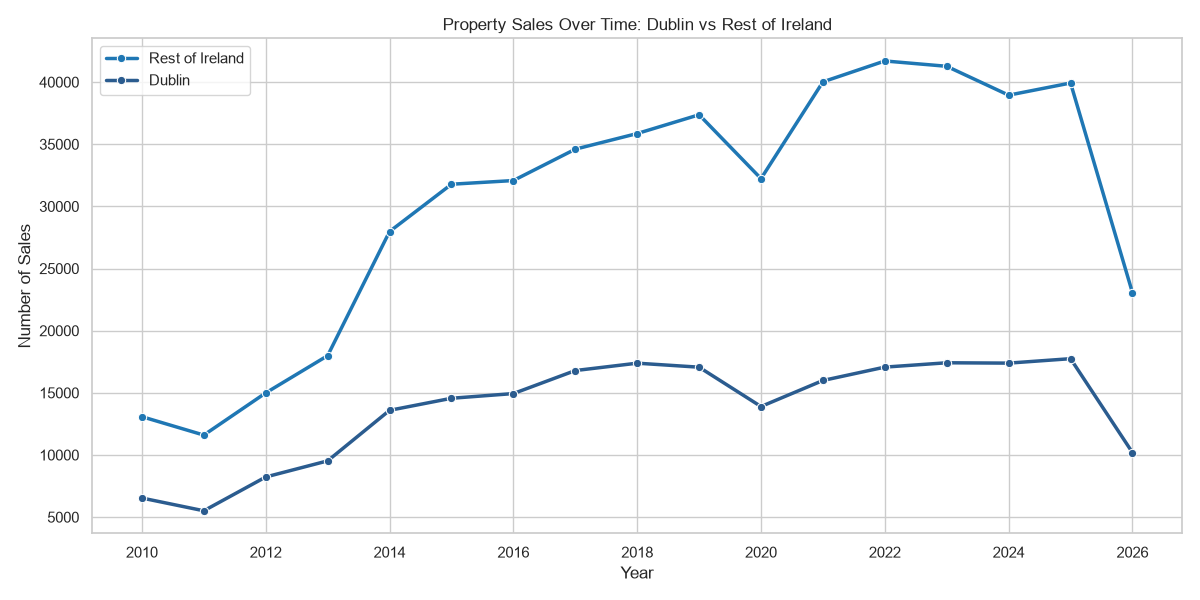
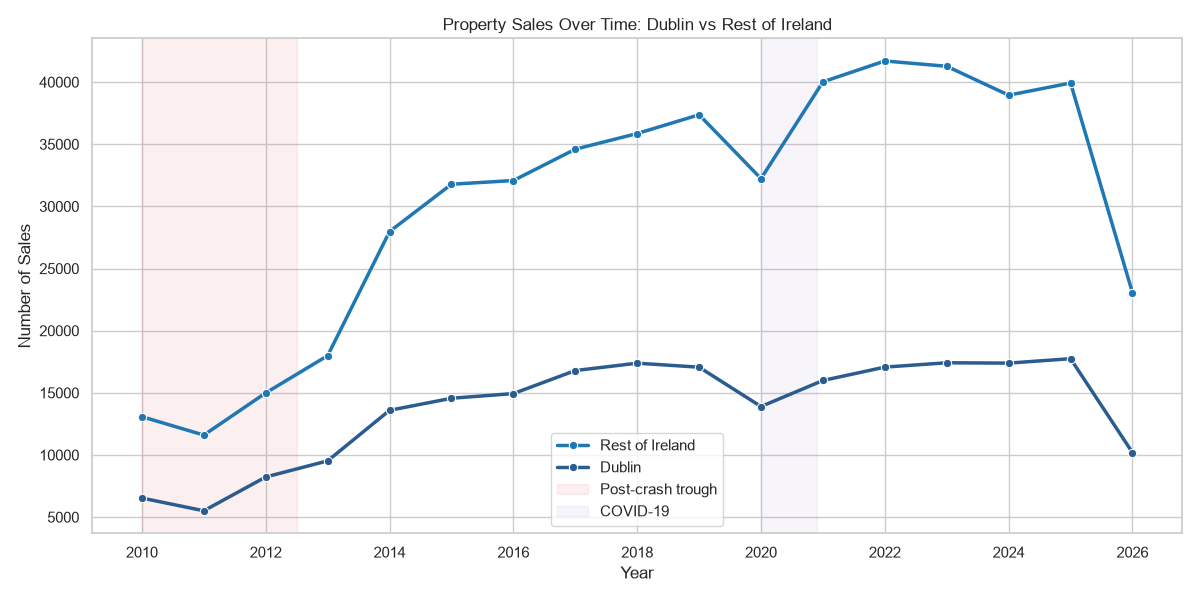
updated the sec files to keep up with the notebook

Changed region(s): [[0.4625, 0.72, 0.6167, 0.87], [0.0925, 0.09, 0.2158, 0.15]]

diff --git a/src/analysis.py b/src/analysis.py
@@ -1,5 +1,8 @@
 import pandas as pd
 import numpy as np
+from sklearn.model_selection import train_test_split
+from sklearn.linear_model import LinearRegression
+from sklearn.metrics import mean_absolute_error, r2_score
 
 
 def analysis(df):
@@ -7,9 +10,8 @@ def analysis(df):
     print(f'Columns:  {df.shape[1]}')
     print(f'Date range: {df["date"].min().date()} -> {df["date"].max().date()}')
 
-    stats = df['price'].describe(percentiles=[.1, .25, .5, .75, .9])
     labels = ['Min', '10th %ile', '25th %ile', 'Median', '75th %ile', '90th %ile', 'Max']
-    values = [stats['min'], stats['10%'], stats['25%'], stats['50%'], stats['75%'], stats['90%'], stats['max']]
+    values = np.percentile(df['price'], [0, 10, 25, 50, 75, 90, 100])
 
     print('National price distribution (all years):')
     print('-' * 35)
@@ -28,3 +30,114 @@ def analysis(df):
     annual['yearly_percentage_change'] = annual['median_price'].pct_change() * 100
 
     return annual
+
+
+def regional_comparison(df):
+    df["is_dublin"] = df["county"] == "dublin"
+    print(df["is_dublin"].head())
+    print(df["is_dublin"].sum())
+
+    yearly_comparison = (
+        df.groupby(["year", "is_dublin"])
+        .size()
+        .reset_index(name="sales_count")
+    )
+    yearly_comparison["region"] = yearly_comparison["is_dublin"].map(
+        {True: "Dublin", False: "Rest of Ireland"}
+    )
+
+    return yearly_comparison
+
+
+def dublin_share(df, yearly_comparison):
+    yearly_comparison = yearly_comparison.copy()
+    yearly_comparison["total"] = yearly_comparison.groupby("year")["sales_count"].transform("sum")
+    yearly_comparison["pct_of_total"] = yearly_comparison["sales_count"] / yearly_comparison["total"] * 100
+
+    overall_totals = df["is_dublin"].value_counts().rename({True: "Dublin", False: "Rest of Ireland"})
+
+    return yearly_comparison, overall_totals
+
+
+def eircode_analysis(df):
+    df["eircode_routing_key"] = df["eircode"].str[:3]
+
+    eircode_stats = (
+        df.dropna(subset=["eircode_routing_key"])
+        .groupby("eircode_routing_key")
+        .agg(median_price=("price", "median"), sales_count=("price", "count"))
+        .query("sales_count >= 30")  # drop routing keys with too few sales to be meaningful
+        .sort_values("median_price", ascending=False)
+    )
+
+    print(f"Most expensive eircode: {eircode_stats.index[0]} — median €{eircode_stats['median_price'].iloc[0]:,.0f}")
+
+    return eircode_stats
+
+
+def train_price_model(df):
+    # Check the county data
+    print(df["county"].head())
+
+    # Keep only rows with the information needed for the model
+    model_df = df.dropna(
+        subset=["price", "county", "year", "property_type"]
+    ).copy()
+
+    # Cap extreme prices so they don't dominate the regression
+    lower, upper = model_df["price"].quantile([0.01, 0.99])
+
+    model_df = model_df[
+        (model_df["price"] >= lower) &
+        (model_df["price"] <= upper)
+    ]
+
+    # One-hot encode categorical variables
+    # drop_first=True creates a reference category
+    X = pd.get_dummies(
+        model_df[["county", "year", "property_type"]],
+        columns=["county", "property_type"],
+        drop_first=True
+    )
+
+    # Target variable
+    y = model_df["price"]
+
+    # Split the data into training and testing sets
+    X_train, X_test, y_train, y_test = train_test_split(
+        X,
+        y,
+        test_size=0.2,
+        random_state=42
+    )
+
+    # Create and train the linear regression model
+    model = LinearRegression()
+    model.fit(X_train, y_train)
+
+    # Make predictions
+    y_pred = model.predict(X_test)
+
+    # Display model coefficients
+    coefficients = pd.DataFrame({
+        "Feature": X.columns,
+        "Coefficient (€)": model.coef_
+    })
+
+    coefficients = (
+        coefficients
+        .sort_values(by="Coefficient (€)", ascending=False)
+        .reset_index(drop=True)
+    )
+
+    print("\nTop 10 features by coefficient:")
+    print(coefficients.head(10))
+
+    # Model performance
+    print(f"\nR² score: {r2_score(y_test, y_pred):.3f}")
+    print(
+        f"Mean Absolute Error: "
+        f"€{mean_absolute_error(y_test, y_pred):,.0f}"
+    )
+
+    return model, coefficients

diff --git a/src/visualization.py b/src/visualization.py
@@ -7,10 +7,10 @@ def visualisation1(annual):
     ACCENT = "#2b5c8f"  # Main median line color (e.g., steel blue)
     BLUE = "#1f77b4"  # Mean line color
     GREEN = "#2ca02c"  # Positive YoY percentage bars
-    RED = "#c21e1e"  # Negative YoY percentage bars & post-crash highlight
-    PURPLE = "#a45ee9"  # COVID-19 highlight
+    RED = "#d62728"  # Negative YoY percentage bars & post-crash highlight
+    PURPLE = "#9467bd"  # COVID-19 highlight
 
-    sns.set_theme(style="whitegrid")
+    sns.set_theme(style="whitegrid", palette="muted")
 
     fig, axes = plt.subplots(
         2, 1, figsize=(14, 10), gridspec_kw={"height_ratios": [2, 1]}
@@ -109,6 +109,89 @@ def visualisation1(annual):
 
     plt.tight_layout(pad=2)
     plt.savefig(
-        "outputs/images/national_price_trend.png", dpi=150, bbox_inches="tight"
+        "outputs/images/national_price_trend.png", dpi=150, bbox_inches="tight", facecolor="#0f1117"
     )
+    plt.show()
+
+
+def visualisation2(yearly_comparison):
+    ACCENT = "#2b5c8f"
+    BLUE = "#1f77b4"
+    RED = "#d62728"
+    PURPLE = "#9467bd"
+
+    plt.figure(figsize=(12, 6))
+    sns.lineplot(
+        data=yearly_comparison,
+        x="year",
+        y="sales_count",
+        hue="region",
+        palette={"Dublin": ACCENT, "Rest of Ireland": BLUE},
+        linewidth=2.5,
+        marker="o",
+        markersize=6,
+    )
+
+    # Highlight Spans
+    plt.axvspan(2010, 2012.5, alpha=0.07, color=RED, label="Post-crash trough")
+    plt.axvspan(2020, 2020.9, alpha=0.07, color=PURPLE, label="COVID-19")
+
+    plt.title("Property Sales Over Time: Dublin vs Rest of Ireland")
+    plt.ylabel("Number of Sales")
+    plt.xlabel("Year")
+    plt.legend(title="")
+    plt.tight_layout()
+    plt.savefig("outputs/images/Property Sales Over time in Dublin vs Rest of Ireland.png")
+    plt.show()
+
+
+def visualisation3(yearly_comparison, overall_totals):
+    ACCENT = "#2b5c8f"
+    BLUE = "#1f77b4"
+
+    fig, axes = plt.subplots(1, 2, figsize=(16, 6), gridspec_kw={"width_ratios": [2, 1]})
+
+    # --- Left: line chart over time ---
+    sns.lineplot(
+        data=yearly_comparison,
+        x="year",
+        y="pct_of_total",
+        hue="region",
+        palette={"Dublin": ACCENT, "Rest of Ireland": BLUE},
+        linewidth=2.5,
+        marker="o",
+        ax=axes[0],
+    )
+    axes[0].set_title("Dublin's Share of National Property Sales Over Time")
+    axes[0].set_ylabel("% of Total Sales")
+    axes[0].set_xlabel("Year")
+    axes[0].legend(title="")
+
+    # --- Right: pie chart, overall total ---
+    axes[1].pie(
+        overall_totals.values,
+        labels=overall_totals.index,
+        autopct="%1.1f%%",
+        colors=[ACCENT, BLUE],
+        startangle=90,
+    )
+    axes[1].set_title("Overall Share (All Years)")
+
+    plt.tight_layout()
+    plt.savefig("outputs/images/Dublin_Share_Combined.png")
+    plt.show()
+
+
+def visualisation4(eircode_stats):
+    ACCENT = "#2b5c8f"
+
+    top15 = eircode_stats.head(15)
+
+    plt.figure(figsize=(10, 7))
+    sns.barplot(x=top15["median_price"], y=top15.index, color=ACCENT)
+    plt.title("Top 15 Most Expensive Eircodes (Median Price)")
+    plt.xlabel("Median Price (€)")
+    plt.ylabel("Eircode")
+    plt.tight_layout()
+    plt.savefig("outputs/images/Most Expensive Eircodes.png")
     plt.show()

diff --git a/src/main.py b/src/main.py
@@ -1,21 +1,32 @@
-from data_loader import load_data 
+from data_loader import load_data
 from preprocessing import standardize
-from analysis import analysis
-from visualization import visualisation1
+from analysis import analysis, regional_comparison, dublin_share, eircode_analysis, train_price_model
+from visualization import visualisation1, visualisation2, visualisation3, visualisation4
 
 def main():
     # Path to the raw dataset
     file_path = "data/raw/PPR-ALL.csv"
 
-    # Load the data 
+    # Load the data
     df = load_data(file_path)
     if df is None:
         print("Failed to load the data")
-        return 
+        return
     df = standardize(df)
     annual = analysis(df)
     visualisation1(annual)
 
-    
+    yearly_comparison = regional_comparison(df)
+    visualisation2(yearly_comparison)
+
+    yearly_comparison, overall_totals = dublin_share(df, yearly_comparison)
+    visualisation3(yearly_comparison, overall_totals)
+
+    eircode_stats = eircode_analysis(df)
+    visualisation4(eircode_stats)
+
+    train_price_model(df)
+
+
 if __name__ == "__main__":
     main()

diff --git a/src/preprocessing.py b/src/preprocessing.py
@@ -21,6 +21,9 @@ def standardize(df):
 
     df["county"] = df["county"].str.strip().str.lower()
 
+    # Blank eircodes become proper missing values so dropna() catches them
+    df["eircode"] = df["eircode"].str.strip().replace("", np.nan)
+
     df["price"] = pd.to_numeric(
         df["price"]
         .str.replace("€", "", regex=False)
@@ -28,7 +31,16 @@ def standardize(df):
         .astype(float)
     )
 
-    df.columns = df.columns.str.lower().str.strip()
+    # --- Outlier Handling (Percentile Trimming) ---
+    lower_percentile = df["price"].quantile(0.01)  # Bottom 1%
+    upper_percentile = df["price"].quantile(0.99)  # Top 1%
+
+    df = df[
+        (df["not_full_market_price"].str.strip().str.title() == "No") &
+        (df["price"] >= lower_percentile) &
+        (df["price"] <= upper_percentile)
+    ]
+
     df = df.drop_duplicates()
 
     return df
